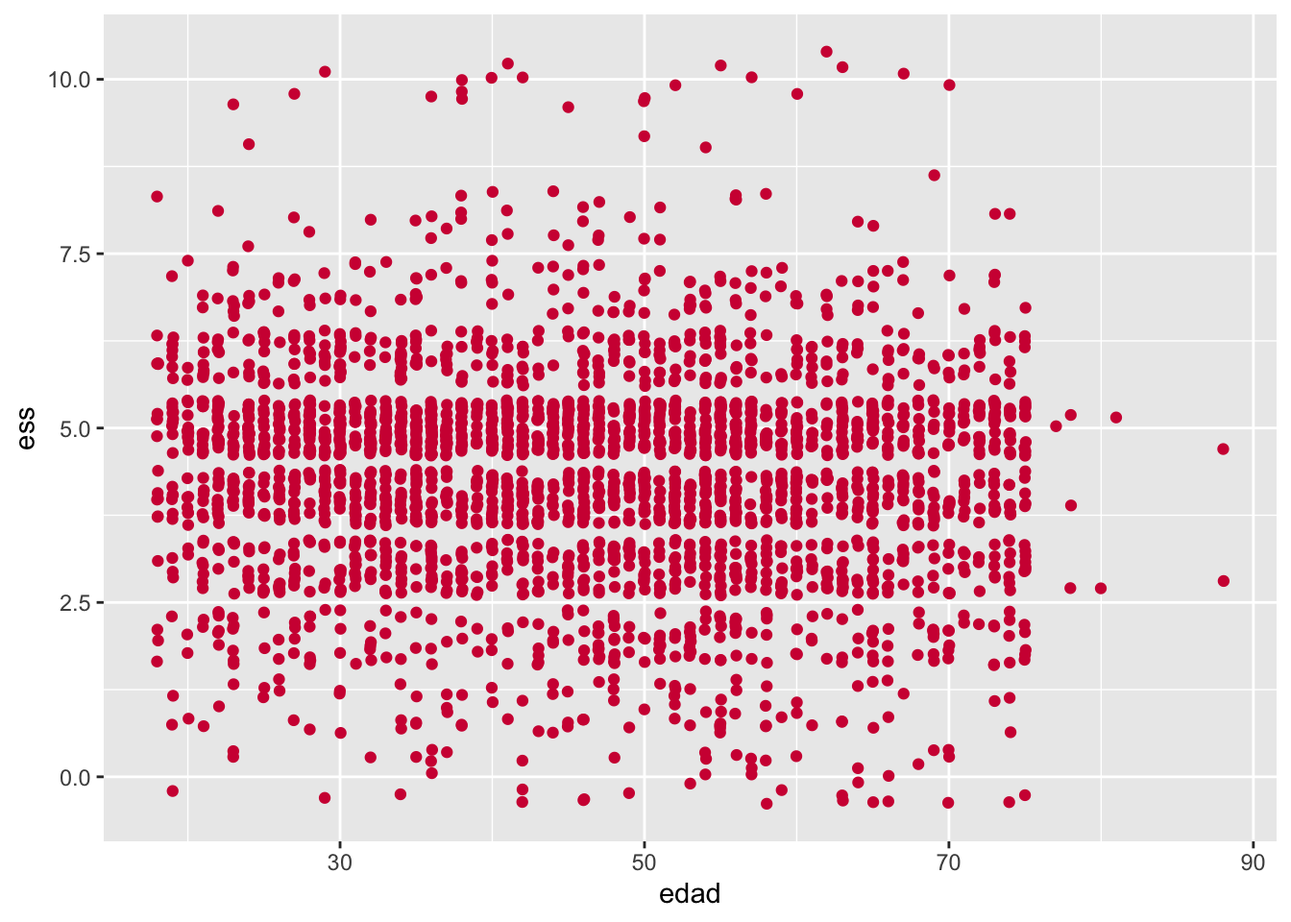
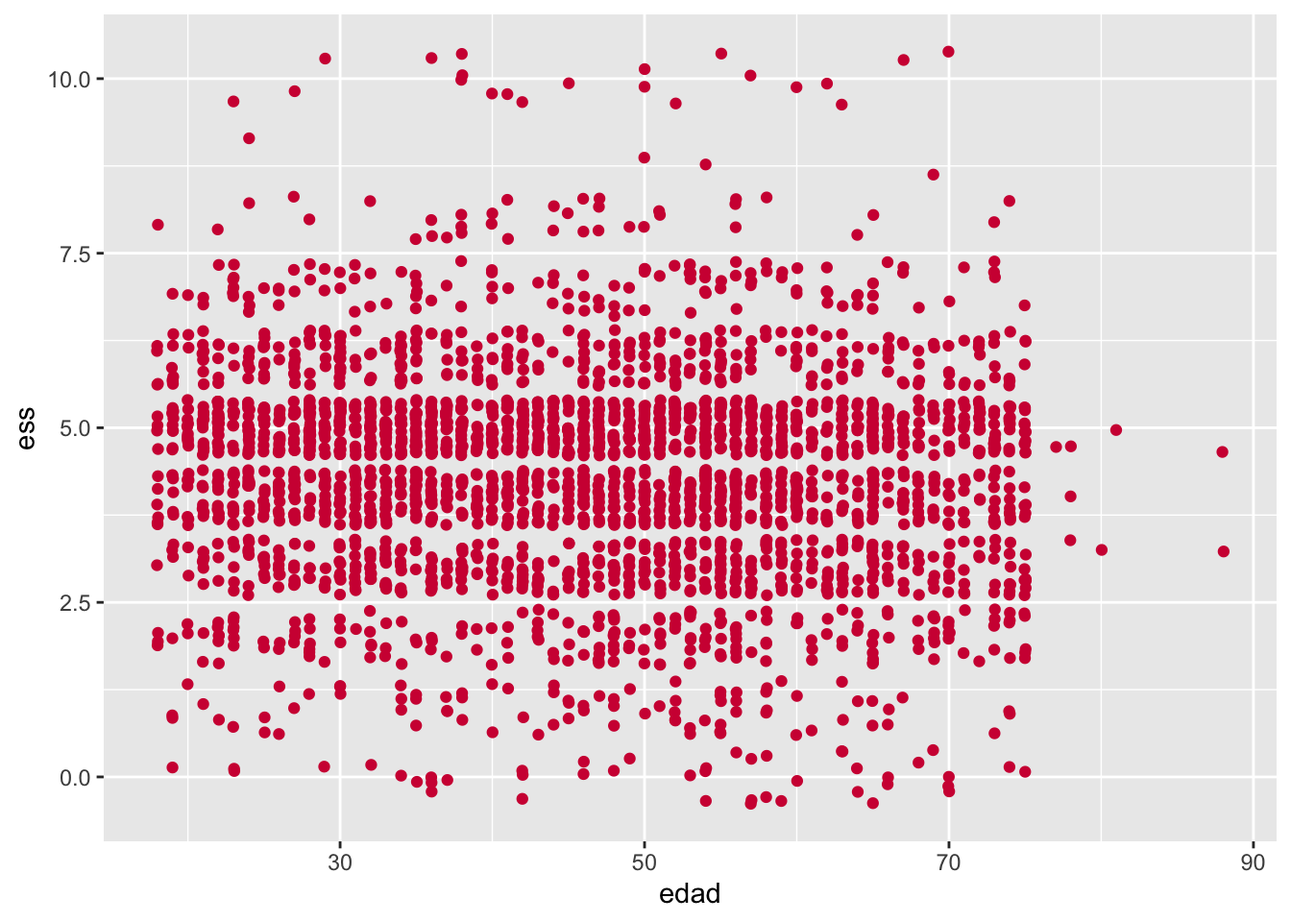
practico 3 final

diff --git a/docs/assignment/03-practico.html b/docs/assignment/03-practico.html
@@ -546,10 +546,23 @@ Nota
 </div>
 <p>Ahora nos quedamos con 2887 observaciones sin casos perdidos.</p>
 <p>Aunque simple de implementar, con este enfoque podemos perder información importante, especialmente si los valores perdidos no se distribuyen aleatoriamente.</p>
+<div class="callout-box callout callout-style-default no-icon callout-captioned">
+<div class="callout-header d-flex align-content-center">
+<div class="callout-icon-container">
+<i class="callout-icon no-icon"></i>
+</div>
+<div class="callout-caption-container flex-fill">
+Box
+</div>
+</div>
+<div class="callout-body-container callout-body">
+<p>Siempre hay que intentar rescatar la mayor cantidad de casos posibles. Por lo tanto, si un listwise genera más de un 10% de casos perdidos se debe detectar qué variables esta produciendo esta pérdida e intentar recuperar datos. Puedes revisar un ejemplo <a href="https://multivariada.netlify.app/assignment/11-code/#recuperar-casos-perdidos-ejemplo-variable-ingresos">aquí.</a></p>
+</div>
+</div>
 </section>
 <section id="b-retener-pero-excluir-pairwise-deletion" class="level3">
 <h3 class="anchored" data-anchor-id="b-retener-pero-excluir-pairwise-deletion">b) Retener pero excluir: pairwise deletion</h3>
-<p>A diferencia del anterior, este es un enfoque en el que las observaciones se utilizan para el análisis siempre que tengan datos disponibles para las variables específicas en cuestión. En lugar de eliminar toda una fila si falta un valor, se eliminan solo los valores faltantes en las variables que se están analizando en ese momento.</p>
+<p>A diferencia del anterior, este es un enfoque en el que las observaciones se utilizan para el análisis siempre que tengan datos disponibles para las variables específicas que se están analizando. En lugar de eliminar toda una fila si falta un valor, se eliminan solo los valores faltantes en las variables que se están analizando en ese momento.</p>
 <p>Para hacer esto en R debemos siempre verificar e indicar en nuestro código si queremos (o no) remover los <code>NA</code> para realizar los análisis.</p>
 <div class="cell">
 <div class="sourceCode cell-code" id="cb16"><pre class="sourceCode r code-with-copy"><code class="sourceCode r"><span id="cb16-1"><a href="#cb16-1" aria-hidden="true" tabindex="-1"></a><span class="fu">mean</span>(proc_elsoc_original<span class="sc">$</span>pmerit); <span class="fu">mean</span>(proc_elsoc<span class="sc">$</span>edad); <span class="fu">mean</span>(proc_elsoc<span class="sc">$</span>ess)</span></code><button title="Copiar al portapapeles" class="code-copy-button"><i class="bi"></i></button></pre></div>
@@ -579,10 +592,10 @@ Nota
 </section>
 <section id="matrices-de-correlación" class="level1">
 <h1>Matrices de correlación</h1>
-<p>Las correlaciones entre variables se presentan en general en modo de matrices, es decir, las variables se presentan en las filas y las columnas, y en las celdas donde se cruzan los pares de variables se muestra su coeficiente de correlación.</p>
+<p>La correlación es una estimación de asociación de dos variables. Sin embargo, en los análisis de bases de datos usualmente se exploran asociaciones entre múltiples pares de variables, lo que genera una matriz de correlación. En una matriz, las variables se presentan en las filas y las columnas, y en las celdas donde se cruzan los pares de variables se muestra su coeficiente de correlación.</p>
 <p>En su forma simple en R se aplica la función <code>cor</code> a la base de datos, y la guardamos en un objeto que le damos el nombre M para futuras operaciones:</p>
 <div class="cell">
-<div class="sourceCode cell-code" id="cb24"><pre class="sourceCode r code-with-copy"><code class="sourceCode r"><span id="cb24-1"><a href="#cb24-1" aria-hidden="true" tabindex="-1"></a>M <span class="ot">&lt;-</span> <span class="fu">cor</span>(proc_elsoc)</span>
+<div class="sourceCode cell-code" id="cb24"><pre class="sourceCode r code-with-copy"><code class="sourceCode r"><span id="cb24-1"><a href="#cb24-1" aria-hidden="true" tabindex="-1"></a>M <span class="ot">&lt;-</span> <span class="fu">cor</span>(proc_elsoc_original, <span class="at">use =</span> <span class="st">"complete.obs"</span>) </span>
 <span id="cb24-2"><a href="#cb24-2" aria-hidden="true" tabindex="-1"></a>M</span></code><button title="Copiar al portapapeles" class="code-copy-button"><i class="bi"></i></button></pre></div>
 <div class="cell-output cell-output-stdout">
 <pre><code>             mesfuerzo    mtalento          ess      edcine        sexo
@@ -605,23 +618,23 @@ pmerit     0.09236979  1.000000000</code></pre>
 </div>
 <p>Este es el reporte simple, pero no muy amigable a la vista. Para una versión más reportable, utilizamos la funcion <code>tab_corr</code>.</p>
 <div class="cell">
-<div class="sourceCode cell-code" id="cb26"><pre class="sourceCode r code-with-copy"><code class="sourceCode r"><span id="cb26-1"><a href="#cb26-1" aria-hidden="true" tabindex="-1"></a>sjPlot<span class="sc">::</span><span class="fu">tab_corr</span>(proc_elsoc, </span>
+<div class="sourceCode cell-code" id="cb26"><pre class="sourceCode r code-with-copy"><code class="sourceCode r"><span id="cb26-1"><a href="#cb26-1" aria-hidden="true" tabindex="-1"></a>sjPlot<span class="sc">::</span><span class="fu">tab_corr</span>(proc_elsoc_original, </span>
 <span id="cb26-2"><a href="#cb26-2" aria-hidden="true" tabindex="-1"></a>                 <span class="at">triangle =</span> <span class="st">"lower"</span>)</span></code><button title="Copiar al portapapeles" class="code-copy-button"><i class="bi"></i></button></pre></div>
 <div class="cell-output-display">
 
 <table style="border-collapse:collapse; border:none;">
 <tbody><tr>
 <th style="font-style:italic; font-weight:normal; border-top:double black; border-bottom:1px solid black; padding:0.2cm;">&nbsp;</th>
-<th style="font-style:italic; font-weight:normal; border-top:double black; border-bottom:1px solid black; padding:0.2cm;">mesfuerzo</th>
-<th style="font-style:italic; font-weight:normal; border-top:double black; border-bottom:1px solid black; padding:0.2cm;">mtalento</th>
-<th style="font-style:italic; font-weight:normal; border-top:double black; border-bottom:1px solid black; padding:0.2cm;">ess</th>
-<th style="font-style:italic; font-weight:normal; border-top:double black; border-bottom:1px solid black; padding:0.2cm;">edcine</th>
-<th style="font-style:italic; font-weight:normal; border-top:double black; border-bottom:1px solid black; padding:0.2cm;">sexo</th>
-<th style="font-style:italic; font-weight:normal; border-top:double black; border-bottom:1px solid black; padding:0.2cm;">edad</th>
-<th style="font-style:italic; font-weight:normal; border-top:double black; border-bottom:1px solid black; padding:0.2cm;">pmerit</th>
+<th style="font-style:italic; font-weight:normal; border-top:double black; border-bottom:1px solid black; padding:0.2cm;">Recompensa: esfuerzo</th>
+<th style="font-style:italic; font-weight:normal; border-top:double black; border-bottom:1px solid black; padding:0.2cm;">Recompensa: talento</th>
+<th style="font-style:italic; font-weight:normal; border-top:double black; border-bottom:1px solid black; padding:0.2cm;">Estatus Social Subjetivo</th>
+<th style="font-style:italic; font-weight:normal; border-top:double black; border-bottom:1px solid black; padding:0.2cm;">Educación</th>
+<th style="font-style:italic; font-weight:normal; border-top:double black; border-bottom:1px solid black; padding:0.2cm;">Sexo</th>
+<th style="font-style:italic; font-weight:normal; border-top:double black; border-bottom:1px solid black; padding:0.2cm;">Edad</th>
+<th style="font-style:italic; font-weight:normal; border-top:double black; border-bottom:1px solid black; padding:0.2cm;">Meritocracia promedio</th>
 </tr>
 <tr>
-<td style="font-style:italic;">mesfuerzo</td>
+<td style="font-style:italic;">Recompensa: esfuerzo</td>
 <td style="padding:0.2cm; text-align:center;">&nbsp;</td>
 <td style="padding:0.2cm; text-align:center;">&nbsp;</td>
 <td style="padding:0.2cm; text-align:center;">&nbsp;</td>
@@ -631,7 +644,7 @@ pmerit     0.09236979  1.000000000</code></pre>
 <td style="padding:0.2cm; text-align:center;">&nbsp;</td>
 </tr>
 <tr>
-<td style="font-style:italic;">mtalento</td>
+<td style="font-style:italic;">Recompensa: talento</td>
 <td style="padding:0.2cm; text-align:center;">0.698<span style="vertical-align:super;font-size:0.8em;">***</span></td>
 <td style="padding:0.2cm; text-align:center;">&nbsp;</td>
 <td style="padding:0.2cm; text-align:center;">&nbsp;</td>
@@ -641,7 +654,7 @@ pmerit     0.09236979  1.000000000</code></pre>
 <td style="padding:0.2cm; text-align:center;">&nbsp;</td>
 </tr>
 <tr>
-<td style="font-style:italic;">ess</td>
+<td style="font-style:italic;">Estatus Social Subjetivo</td>
 <td style="padding:0.2cm; text-align:center; color:#999999;">-0.004<span style="vertical-align:super;font-size:0.8em;"></span></td>
 <td style="padding:0.2cm; text-align:center; color:#999999;">0.018<span style="vertical-align:super;font-size:0.8em;"></span></td>
 <td style="padding:0.2cm; text-align:center;">&nbsp;</td>
@@ -651,7 +664,7 @@ pmerit     0.09236979  1.000000000</code></pre>
 <td style="padding:0.2cm; text-align:center;">&nbsp;</td>
 </tr>
 <tr>
-<td style="font-style:italic;">edcine</td>
+<td style="font-style:italic;">Educación</td>
 <td style="padding:0.2cm; text-align:center;">-0.122<span style="vertical-align:super;font-size:0.8em;">***</span></td>
 <td style="padding:0.2cm; text-align:center;">-0.106<span style="vertical-align:super;font-size:0.8em;">***</span></td>
 <td style="padding:0.2cm; text-align:center;">0.290<span style="vertical-align:super;font-size:0.8em;">***</span></td>
@@ -661,7 +674,7 @@ pmerit     0.09236979  1.000000000</code></pre>
 <td style="padding:0.2cm; text-align:center;">&nbsp;</td>
 </tr>
 <tr>
-<td style="font-style:italic;">sexo</td>
+<td style="font-style:italic;">Sexo</td>
 <td style="padding:0.2cm; text-align:center;">-0.045<span style="vertical-align:super;font-size:0.8em;">*</span></td>
 <td style="padding:0.2cm; text-align:center;">-0.038<span style="vertical-align:super;font-size:0.8em;">*</span></td>
 <td style="padding:0.2cm; text-align:center;">-0.037<span style="vertical-align:super;font-size:0.8em;">*</span></td>
@@ -671,7 +684,7 @@ pmerit     0.09236979  1.000000000</code></pre>
 <td style="padding:0.2cm; text-align:center;">&nbsp;</td>
 </tr>
 <tr>
-<td style="font-style:italic;">edad</td>
+<td style="font-style:italic;">Edad</td>
 <td style="padding:0.2cm; text-align:center;">0.096<span style="vertical-align:super;font-size:0.8em;">***</span></td>
 <td style="padding:0.2cm; text-align:center;">0.074<span style="vertical-align:super;font-size:0.8em;">***</span></td>
 <td style="padding:0.2cm; text-align:center;">-0.066<span style="vertical-align:super;font-size:0.8em;">***</span></td>
@@ -681,7 +694,7 @@ pmerit     0.09236979  1.000000000</code></pre>
 <td style="padding:0.2cm; text-align:center;">&nbsp;</td>
 </tr>
 <tr>
-<td style="font-style:italic;">pmerit</td>
+<td style="font-style:italic;">Meritocracia promedio</td>
 <td style="padding:0.2cm; text-align:center;">0.920<span style="vertical-align:super;font-size:0.8em;">***</span></td>
 <td style="padding:0.2cm; text-align:center;">0.922<span style="vertical-align:super;font-size:0.8em;">***</span></td>
 <td style="padding:0.2cm; text-align:center; color:#999999;">0.008<span style="vertical-align:super;font-size:0.8em;"></span></td>
@@ -697,32 +710,127 @@ pmerit     0.09236979  1.000000000</code></pre>
 </tbody></table>
 </div>
 </div>
+<p>La <strong>distinción</strong> entre <strong>listwise y pairwise es relevante al momento de estimar matricies de correlación</strong>, donde esta decisión debe estar claramente explicitada y fundamentada. En ejemplo de tabla anterior usamos <em>listwise</em> que es el argumento por defecto (y nos lo indica al final de la tabla).</p>
+<p>Veamos como hacerlo con <em>pairwise</em>:</p>
+<div class="cell">
+<div class="sourceCode cell-code" id="cb27"><pre class="sourceCode r code-with-copy"><code class="sourceCode r"><span id="cb27-1"><a href="#cb27-1" aria-hidden="true" tabindex="-1"></a>sjPlot<span class="sc">::</span><span class="fu">tab_corr</span>(proc_elsoc_original, </span>
+<span id="cb27-2"><a href="#cb27-2" aria-hidden="true" tabindex="-1"></a>                 <span class="at">na.deletion =</span> <span class="st">"pairwise"</span>, <span class="co"># espeficicamos tratamiento NA</span></span>
+<span id="cb27-3"><a href="#cb27-3" aria-hidden="true" tabindex="-1"></a>                 <span class="at">triangle =</span> <span class="st">"lower"</span>)</span></code><button title="Copiar al portapapeles" class="code-copy-button"><i class="bi"></i></button></pre></div>
+<div class="cell-output-display">
+
+<table style="border-collapse:collapse; border:none;">
+<tbody><tr>
+<th style="font-style:italic; font-weight:normal; border-top:double black; border-bottom:1px solid black; padding:0.2cm;">&nbsp;</th>
+<th style="font-style:italic; font-weight:normal; border-top:double black; border-bottom:1px solid black; padding:0.2cm;">Recompensa: esfuerzo</th>
+<th style="font-style:italic; font-weight:normal; border-top:double black; border-bottom:1px solid black; padding:0.2cm;">Recompensa: talento</th>
+<th style="font-style:italic; font-weight:normal; border-top:double black; border-bottom:1px solid black; padding:0.2cm;">Estatus Social Subjetivo</th>
+<th style="font-style:italic; font-weight:normal; border-top:double black; border-bottom:1px solid black; padding:0.2cm;">Educación</th>
+<th style="font-style:italic; font-weight:normal; border-top:double black; border-bottom:1px solid black; padding:0.2cm;">Sexo</th>
+<th style="font-style:italic; font-weight:normal; border-top:double black; border-bottom:1px solid black; padding:0.2cm;">Edad</th>
+<th style="font-style:italic; font-weight:normal; border-top:double black; border-bottom:1px solid black; padding:0.2cm;">Meritocracia promedio</th>
+</tr>
+<tr>
+<td style="font-style:italic;">Recompensa: esfuerzo</td>
+<td style="padding:0.2cm; text-align:center;">&nbsp;</td>
+<td style="padding:0.2cm; text-align:center;">&nbsp;</td>
+<td style="padding:0.2cm; text-align:center;">&nbsp;</td>
+<td style="padding:0.2cm; text-align:center;">&nbsp;</td>
+<td style="padding:0.2cm; text-align:center;">&nbsp;</td>
+<td style="padding:0.2cm; text-align:center;">&nbsp;</td>
+<td style="padding:0.2cm; text-align:center;">&nbsp;</td>
+</tr>
+<tr>
+<td style="font-style:italic;">Recompensa: talento</td>
+<td style="padding:0.2cm; text-align:center;">0.696<span style="vertical-align:super;font-size:0.8em;">***</span></td>
+<td style="padding:0.2cm; text-align:center;">&nbsp;</td>
+<td style="padding:0.2cm; text-align:center;">&nbsp;</td>
+<td style="padding:0.2cm; text-align:center;">&nbsp;</td>
+<td style="padding:0.2cm; text-align:center;">&nbsp;</td>
+<td style="padding:0.2cm; text-align:center;">&nbsp;</td>
+<td style="padding:0.2cm; text-align:center;">&nbsp;</td>
+</tr>
+<tr>
+<td style="font-style:italic;">Estatus Social Subjetivo</td>
+<td style="padding:0.2cm; text-align:center; color:#999999;">-0.006<span style="vertical-align:super;font-size:0.8em;"></span></td>
+<td style="padding:0.2cm; text-align:center; color:#999999;">0.016<span style="vertical-align:super;font-size:0.8em;"></span></td>
+<td style="padding:0.2cm; text-align:center;">&nbsp;</td>
+<td style="padding:0.2cm; text-align:center;">&nbsp;</td>
+<td style="padding:0.2cm; text-align:center;">&nbsp;</td>
+<td style="padding:0.2cm; text-align:center;">&nbsp;</td>
+<td style="padding:0.2cm; text-align:center;">&nbsp;</td>
+</tr>
+<tr>
+<td style="font-style:italic;">Educación</td>
+<td style="padding:0.2cm; text-align:center;">-0.124<span style="vertical-align:super;font-size:0.8em;">***</span></td>
+<td style="padding:0.2cm; text-align:center;">-0.109<span style="vertical-align:super;font-size:0.8em;">***</span></td>
+<td style="padding:0.2cm; text-align:center;">0.287<span style="vertical-align:super;font-size:0.8em;">***</span></td>
+<td style="padding:0.2cm; text-align:center;">&nbsp;</td>
+<td style="padding:0.2cm; text-align:center;">&nbsp;</td>
+<td style="padding:0.2cm; text-align:center;">&nbsp;</td>
+<td style="padding:0.2cm; text-align:center;">&nbsp;</td>
+</tr>
+<tr>
+<td style="font-style:italic;">Sexo</td>
+<td style="padding:0.2cm; text-align:center;">-0.044<span style="vertical-align:super;font-size:0.8em;">*</span></td>
+<td style="padding:0.2cm; text-align:center; color:#999999;">-0.036<span style="vertical-align:super;font-size:0.8em;"></span></td>
+<td style="padding:0.2cm; text-align:center; color:#999999;">-0.035<span style="vertical-align:super;font-size:0.8em;"></span></td>
+<td style="padding:0.2cm; text-align:center;">-0.090<span style="vertical-align:super;font-size:0.8em;">***</span></td>
+<td style="padding:0.2cm; text-align:center;">&nbsp;</td>
+<td style="padding:0.2cm; text-align:center;">&nbsp;</td>
+<td style="padding:0.2cm; text-align:center;">&nbsp;</td>
+</tr>
+<tr>
+<td style="font-style:italic;">Edad</td>
+<td style="padding:0.2cm; text-align:center;">0.099<span style="vertical-align:super;font-size:0.8em;">***</span></td>
+<td style="padding:0.2cm; text-align:center;">0.075<span style="vertical-align:super;font-size:0.8em;">***</span></td>
+<td style="padding:0.2cm; text-align:center;">-0.068<span style="vertical-align:super;font-size:0.8em;">***</span></td>
+<td style="padding:0.2cm; text-align:center;">-0.379<span style="vertical-align:super;font-size:0.8em;">***</span></td>
+<td style="padding:0.2cm; text-align:center;">0.062<span style="vertical-align:super;font-size:0.8em;">***</span></td>
+<td style="padding:0.2cm; text-align:center;">&nbsp;</td>
+<td style="padding:0.2cm; text-align:center;">&nbsp;</td>
+</tr>
+<tr>
+<td style="font-style:italic;">Meritocracia promedio</td>
+<td style="padding:0.2cm; text-align:center;">0.920<span style="vertical-align:super;font-size:0.8em;">***</span></td>
+<td style="padding:0.2cm; text-align:center;">0.922<span style="vertical-align:super;font-size:0.8em;">***</span></td>
+<td style="padding:0.2cm; text-align:center; color:#999999;">0.008<span style="vertical-align:super;font-size:0.8em;"></span></td>
+<td style="padding:0.2cm; text-align:center;">-0.125<span style="vertical-align:super;font-size:0.8em;">***</span></td>
+<td style="padding:0.2cm; text-align:center;">-0.043<span style="vertical-align:super;font-size:0.8em;">*</span></td>
+<td style="padding:0.2cm; text-align:center;">0.092<span style="vertical-align:super;font-size:0.8em;">***</span></td>
+<td style="padding:0.2cm; text-align:center;">&nbsp;</td>
+</tr>
+<tr>
+<td colspan="8" style="border-bottom:double black; border-top:1px solid black; font-style:italic; font-size:0.9em; text-align:right;">Computed correlation used pearson-method with pairwise-deletion.</td>
+</tr>
+ 
+</tbody></table>
+</div>
+</div>
 <p>Con esta mejor visualización, algunas observaciones sobre la matriz de correlaciones:</p>
 <ul>
 <li>En esta matriz las variables están representadas en las filas y en las columnas.</li>
-<li>Cada coeficiente expresa la correlación de una variable con otra. Por ejemplo, la correlación entre la variable de recompensa por esfuerzo y recompensa por inteligencia es 0.698.</li>
-<li>La información de cada coeficiente se repite sobre y bajo la diagonal, ya que es el mismo par de variables pero en el orden alterno. Podemos omitir los pares de información que se repiten o son redundantes.</li>
+<li>Cada coeficiente expresa la correlación de una variable con otra. Por ejemplo, la correlación entre la variable de <code>mesfuerzo</code> y <code>mtalento</code> es 0.69.</li>
+<li>La información de cada coeficiente se repite sobre y bajo la diagonal, ya que es el mismo par de variables pero en el orden alterno. Por convención en general se omiten las correlaciones redundantes sobre la diagonal, por eso aparece en blanco.</li>
 <li>En la diagonal corresponde que todos los coeficientes sean 1, ya que la correlación de una variable consigo misma es perfectamente positiva.</li>
 </ul>
 <p>Otra manera de presentar matrices de correlación es mediante gráficos. Veamos un ejemplo con la función <code>corrplot.mixed</code> de la librería <code>corrplot</code> sobre nuestra matriz <code>M</code> ya creada.</p>
 <div class="cell">
-<div class="sourceCode cell-code" id="cb27"><pre class="sourceCode r code-with-copy"><code class="sourceCode r"><span id="cb27-1"><a href="#cb27-1" aria-hidden="true" tabindex="-1"></a><span class="fu">corrplot.mixed</span>(M)</span></code><button title="Copiar al portapapeles" class="code-copy-button"><i class="bi"></i></button></pre></div>
+<div class="sourceCode cell-code" id="cb28"><pre class="sourceCode r code-with-copy"><code class="sourceCode r"><span id="cb28-1"><a href="#cb28-1" aria-hidden="true" tabindex="-1"></a><span class="fu">corrplot.mixed</span>(M)</span></code><button title="Copiar al portapapeles" class="code-copy-button"><i class="bi"></i></button></pre></div>
 <div class="cell-output-display">
 <p><img src="03-practico_files/figure-html/cor3-1.png" class="img-fluid" width="672"></p>
 </div>
 </div>
 <p>Este gráfico/matriz representa el grado de asociación entre variables mediante el tamaño de los círculos e intensidad de colores, y el signo de la asociación se representa con una gradiente de colores que va del azul (positivo) al rojo (negativo).</p>
-<p><strong>¡Genial!</strong></p>
 <p>Otra manera de graficar la matriz es con la función <code>ggpairs</code> del paquete <code>GGally</code>, que nos entrega no solo el valor del coeficiente y su significancia (***), si no que también un <em>scatter</em> del cruce entre variables.</p>
 <div class="cell">
-<div class="sourceCode cell-code" id="cb28"><pre class="sourceCode r code-with-copy"><code class="sourceCode r"><span id="cb28-1"><a href="#cb28-1" aria-hidden="true" tabindex="-1"></a><span class="fu">ggpairs</span>(proc_elsoc) </span></code><button title="Copiar al portapapeles" class="code-copy-button"><i class="bi"></i></button></pre></div>
+<div class="sourceCode cell-code" id="cb29"><pre class="sourceCode r code-with-copy"><code class="sourceCode r"><span id="cb29-1"><a href="#cb29-1" aria-hidden="true" tabindex="-1"></a><span class="fu">ggpairs</span>(proc_elsoc) </span></code><button title="Copiar al portapapeles" class="code-copy-button"><i class="bi"></i></button></pre></div>
 <div class="cell-output-display">
 <p><img src="03-practico_files/figure-html/cor5-1.png" class="img-fluid" width="672"></p>
 </div>
 </div>
 <p>Finalmente, también se puede representar la correlación entre dos variables en un gráfico de nube de puntos o <em>scatterplot</em>.</p>
 <div class="cell">
-<div class="sourceCode cell-code" id="cb29"><pre class="sourceCode r code-with-copy"><code class="sourceCode r"><span id="cb29-1"><a href="#cb29-1" aria-hidden="true" tabindex="-1"></a>sjPlot<span class="sc">::</span><span class="fu">plot_scatter</span>(proc_elsoc, edad, ess)</span></code><button title="Copiar al portapapeles" class="code-copy-button"><i class="bi"></i></button></pre></div>
+<div class="sourceCode cell-code" id="cb30"><pre class="sourceCode r code-with-copy"><code class="sourceCode r"><span id="cb30-1"><a href="#cb30-1" aria-hidden="true" tabindex="-1"></a>sjPlot<span class="sc">::</span><span class="fu">plot_scatter</span>(proc_elsoc, edad, ess)</span></code><button title="Copiar al portapapeles" class="code-copy-button"><i class="bi"></i></button></pre></div>
 <div class="cell-output-display">
 <p><img src="03-practico_files/figure-html/cor6-1.png" class="img-fluid" width="672"></p>
 </div>
@@ -833,7 +941,7 @@ Grande
 <p>En R calcularlo es sencillo, pero <em>debemos tener en cuenta que las variables que relacionemos tengan un orden de rango similar</em>: por ejemplo, que el valor más bajo sea el rango más bajo y que el valor más alto sea el rango más alto.</p>
 <p>Tomemos por ejemplo las variables <code>mesfuerzo</code> y <code>mtalento</code>.</p>
 <div class="cell">
-<div class="sourceCode cell-code" id="cb30"><pre class="sourceCode r code-with-copy"><code class="sourceCode r"><span id="cb30-1"><a href="#cb30-1" aria-hidden="true" tabindex="-1"></a>sjmisc<span class="sc">::</span><span class="fu">frq</span>(proc_elsoc<span class="sc">$</span>mesfuerzo)</span></code><button title="Copiar al portapapeles" class="code-copy-button"><i class="bi"></i></button></pre></div>
+<div class="sourceCode cell-code" id="cb31"><pre class="sourceCode r code-with-copy"><code class="sourceCode r"><span id="cb31-1"><a href="#cb31-1" aria-hidden="true" tabindex="-1"></a>sjmisc<span class="sc">::</span><span class="fu">frq</span>(proc_elsoc<span class="sc">$</span>mesfuerzo)</span></code><button title="Copiar al portapapeles" class="code-copy-button"><i class="bi"></i></button></pre></div>
 <div class="cell-output cell-output-stdout">
 <pre><code>x &lt;numeric&gt; 
 # total N=2887 valid N=2887 mean=2.57 sd=1.05
@@ -847,7 +955,7 @@ Value |    N | Raw % | Valid % | Cum. %
     5 |   78 |  2.70 |    2.70 | 100.00
  &lt;NA&gt; |    0 |  0.00 |    &lt;NA&gt; |   &lt;NA&gt;</code></pre>
 </div>
-<div class="sourceCode cell-code" id="cb32"><pre class="sourceCode r code-with-copy"><code class="sourceCode r"><span id="cb32-1"><a href="#cb32-1" aria-hidden="true" tabindex="-1"></a>sjmisc<span class="sc">::</span><span class="fu">frq</span>(proc_elsoc<span class="sc">$</span>mtalento)</span></code><button title="Copiar al portapapeles" class="code-copy-button"><i class="bi"></i></button></pre></div>
+<div class="sourceCode cell-code" id="cb33"><pre class="sourceCode r code-with-copy"><code class="sourceCode r"><span id="cb33-1"><a href="#cb33-1" aria-hidden="true" tabindex="-1"></a>sjmisc<span class="sc">::</span><span class="fu">frq</span>(proc_elsoc<span class="sc">$</span>mtalento)</span></code><button title="Copiar al portapapeles" class="code-copy-button"><i class="bi"></i></button></pre></div>
 <div class="cell-output cell-output-stdout">
 <pre><code>x &lt;numeric&gt; 
 # total N=2887 valid N=2887 mean=2.74 sd=1.06
@@ -864,7 +972,7 @@ Value |    N | Raw % | Valid % | Cum. %
 </div>
 <p>Ahora, calculemos el coeficiente de correlación de Spearman con <code>cor.test</code>.</p>
 <div class="cell">
-<div class="sourceCode cell-code" id="cb34"><pre class="sourceCode r code-with-copy"><code class="sourceCode r"><span id="cb34-1"><a href="#cb34-1" aria-hidden="true" tabindex="-1"></a><span class="fu">cor.test</span>(proc_elsoc<span class="sc">$</span>mesfuerzo, proc_elsoc<span class="sc">$</span>mtalento, <span class="at">method =</span> <span class="st">"spearman"</span>) <span class="co">#especificamos metodo spearman</span></span></code><button title="Copiar al portapapeles" class="code-copy-button"><i class="bi"></i></button></pre></div>
+<div class="sourceCode cell-code" id="cb35"><pre class="sourceCode r code-with-copy"><code class="sourceCode r"><span id="cb35-1"><a href="#cb35-1" aria-hidden="true" tabindex="-1"></a><span class="fu">cor.test</span>(proc_elsoc<span class="sc">$</span>mesfuerzo, proc_elsoc<span class="sc">$</span>mtalento, <span class="at">method =</span> <span class="st">"spearman"</span>) <span class="co">#especificamos metodo spearman</span></span></code><button title="Copiar al portapapeles" class="code-copy-button"><i class="bi"></i></button></pre></div>
 <div class="cell-output cell-output-stdout">
 <pre><code>
     Spearman's rank correlation rho
@@ -884,26 +992,26 @@ sample estimates:
 <p>El coeficiente de determinación <span class="math inline">\(R^2\)</span> es una medida estadística que indica la proporción de la varianza total de una variable que es explicada por otra(s) variable(s). En pocas palabras,</p>
 <ul>
 <li>se utiliza para evaluar cuánta de la variabilidad de una variable se debe a otra variable.</li>
-<li>sus valores van desde 0 a 1, en donde 0 indica que no explica nada y 1 que explica toda la variabilidad.</li>
+<li>sus valores van desde 0 a 1, en donde 0 indica que ambas variables comparten el 0% de su varianza, y 1 que comparten el 100% de su varianza.</li>
 </ul>
-<p>En el contexto de la correlación entre <strong>solo dos variables</strong>, el <span class="math inline">\(R^2\)</span> es igual a elevar al cuadrado el coeficiente de correlación = <code>(r)^2</code>. Esto nos permite conocer qué tanto la variabilidad de una variable X estaría explicando la variabilidad de otra variable Y.</p>
+<p>En el contexto de la correlación entre <strong>solo dos variables</strong>, el <span class="math inline">\(R^2\)</span> es igual a elevar al cuadrado el coeficiente de correlación = <code>(r)^2</code>. Esto nos permite conocer qué tanto la variabilidad de una variable X estaría asociado a la variabilidad de otra variable Y.</p>
 <p>En nuestro ejemplo anterior entre estatus social subjetivo y años de educación, teníamos que su coeficiente de correlación era <em>r = 0.3</em>.</p>
 <div class="cell">
-<div class="sourceCode cell-code" id="cb36"><pre class="sourceCode r code-with-copy"><code class="sourceCode r"><span id="cb36-1"><a href="#cb36-1" aria-hidden="true" tabindex="-1"></a>coef_r <span class="ot">&lt;-</span> M[<span class="dv">4</span>,<span class="dv">3</span>] <span class="co"># seleccionamos el coef de nuestra matriz</span></span>
-<span id="cb36-2"><a href="#cb36-2" aria-hidden="true" tabindex="-1"></a></span>
-<span id="cb36-3"><a href="#cb36-3" aria-hidden="true" tabindex="-1"></a>coef_r</span></code><button title="Copiar al portapapeles" class="code-copy-button"><i class="bi"></i></button></pre></div>
+<div class="sourceCode cell-code" id="cb37"><pre class="sourceCode r code-with-copy"><code class="sourceCode r"><span id="cb37-1"><a href="#cb37-1" aria-hidden="true" tabindex="-1"></a>coef_r <span class="ot">&lt;-</span> M[<span class="dv">4</span>,<span class="dv">3</span>] <span class="co"># seleccionamos el coef de nuestra matriz</span></span>
+<span id="cb37-2"><a href="#cb37-2" aria-hidden="true" tabindex="-1"></a></span>
+<span id="cb37-3"><a href="#cb37-3" aria-hidden="true" tabindex="-1"></a>coef_r</span></code><button title="Copiar al portapapeles" class="code-copy-button"><i class="bi"></i></button></pre></div>
 <div class="cell-output cell-output-stdout">
 <pre><code>[1] 0.2895925</code></pre>
 </div>
 </div>
 <p>Calculemos el <span class="math inline">\(R^2\)</span> de esta asociación.</p>
 <div class="cell">
-<div class="sourceCode cell-code" id="cb38"><pre class="sourceCode r code-with-copy"><code class="sourceCode r"><span id="cb38-1"><a href="#cb38-1" aria-hidden="true" tabindex="-1"></a>coef_r<span class="sc">^</span><span class="dv">2</span></span></code><button title="Copiar al portapapeles" class="code-copy-button"><i class="bi"></i></button></pre></div>
+<div class="sourceCode cell-code" id="cb39"><pre class="sourceCode r code-with-copy"><code class="sourceCode r"><span id="cb39-1"><a href="#cb39-1" aria-hidden="true" tabindex="-1"></a>coef_r<span class="sc">^</span><span class="dv">2</span></span></code><button title="Copiar al portapapeles" class="code-copy-button"><i class="bi"></i></button></pre></div>
 <div class="cell-output cell-output-stdout">
 <pre><code>[1] 0.0838638</code></pre>
 </div>
 </div>
-<p>Con esto, podemos decir que el 9% de la variabilidad del estatus social subjetivo se explica por la variabilidad en los años de educación.</p>
+<p>Con esto, podemos decir que el 9% de la variabilidad del estatus social subjetivo es compartido con la variabilidad en los años de educación.</p>
 </section>
 <section id="resumen" class="level1">
 <h1>Resumen</h1>
